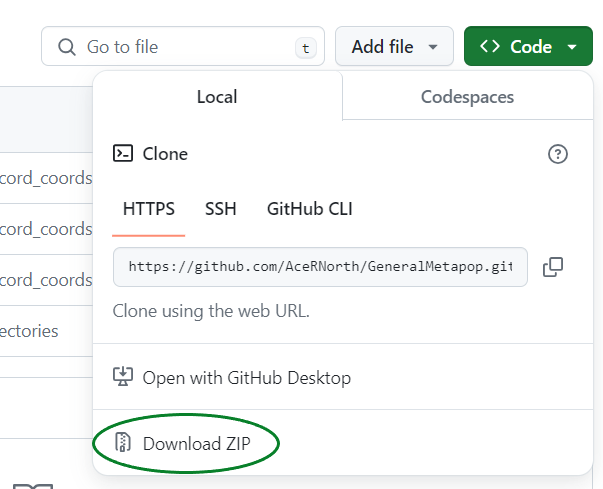
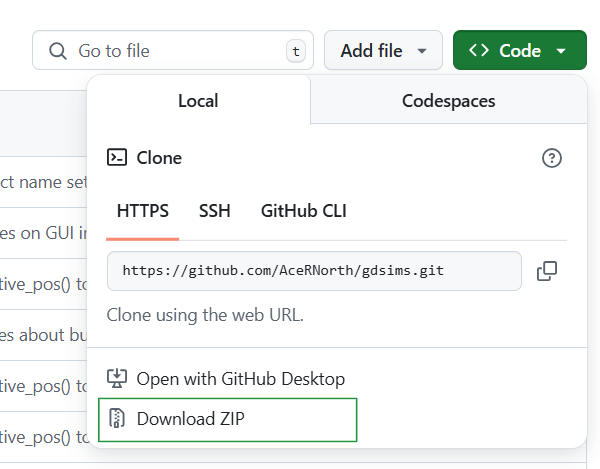
Update repo name in docs to gdsims

diff --git a/README.md b/README.md
@@ -1,7 +1,7 @@
-# GeneralMetapop
-GeneralMetapop is a metapopulation simulation program modelling mosquito populations and their response to gene drive release. The main aims of the project are to create a model program that is maintainable, extensible and widely accessible.
+# GDSiMS
+GDSiMS: the Gene Drive Simulator of Mosquito Spread is a metapopulation simulation program modelling mosquito populations and their response to gene drive release. The main aims of the project are to create a model program that is maintainable, extensible and widely accessible.
 
-The full documentation website can be found [here](https://acernorth.github.io/GeneralMetapop/), which includes updated installation instructions, tutorials, a user guide and full API documentation.
+The full documentation website can be found [here](https://acernorth.github.io/gdsims/), which includes updated installation instructions, tutorials, a user guide and full API documentation.
 
 ## Requirements:
 - C++20-compatible compiler or higher (e.g. MinGW g++ $\geq$ 8.0 for Windows, Clang $\geq$ 10 for Mac)
@@ -28,17 +28,17 @@ The full documentation website can be found [here](https://acernorth.github.io/G
       Install Git Bash and open. Navigate to your chosen directory and run this command to clone the repository:
      ```bash
      cd C:\Users\MyUser\Projects
-     git clone https://github.com/AceRNorth/GeneralMetapop.git
+     git clone https://github.com/AceRNorth/gdsims.git
      ```
    ii. Alternatively, download the files as a ZIP folder, unzip and move to your chosen directory.
    
-   ![download_ZIP](https://github.com/AceRNorth/GeneralMetapop/assets/129318133/f17b09cc-eeb0-4735-ba0c-613a07cb714b)
+   ![download_ZIP](docs/images/install_github_zip.png)
 
 
 3. Open the Windows command prompt again and navigate to your chosen directory.
 
    ```bash
-   cd C:\Users\MyUser\Projects\GeneralMetapop
+   cd C:\Users\MyUser\Projects\gdsims
    ```
 
 4. Create a directory called build where CMake files will be created, and navigate to it:
@@ -87,13 +87,13 @@ The full documentation website can be found [here](https://acernorth.github.io/G
    
      ```bash
      cd ./Projects
-     git clone https://github.com/AceRNorth/GeneralMetapop.git
+     git clone https://github.com/AceRNorth/gdsims.git
      ```
      
 3. Navigate to the repository directory:
 
    ```bash
-   cd GeneralMetapop
+   cd gdsims
    ```
 
 5. Create a directory called build where CMake files will be created, and navigate to it:

diff --git a/docs/install.rst b/docs/install.rst
@@ -42,7 +42,7 @@ Windows
       .. code-block:: bash
 
          cd C:\Users\MyUser\Projects
-         git clone https://github.com/AceRNorth/GeneralMetapop.git
+         git clone https://github.com/AceRNorth/gdsims.git
 
    ii. Alternatively, download the files as a ZIP folder, unzip and move to your chosen directory.
 
@@ -53,7 +53,7 @@ Windows
 
    .. code-block:: bash
 
-      cd C:\Users\MyUser\Projects\GeneralMetapop
+      cd C:\Users\MyUser\Projects\gdsims
       mkdir build
       cd build
 
@@ -62,7 +62,7 @@ Windows
 
       ::
 
-         GeneralMetapop
+         gdsims
          ├── build
          ├── docs 
          │   └── exercises
@@ -140,13 +140,13 @@ Mac
    .. code-block:: bash
 
       cd ~/Documents/Projects
-      git clone https://github.com/AceRNorth/GeneralMetapop.git
+      git clone https://github.com/AceRNorth/gdsims.git
 
 #. Navigate to the repository directory. Then, create a subdirectory called ``build`` where CMake files will be created, and navigate to it. 
 
    .. code-block:: bash
 
-      cd GeneralMetapop
+      cd gdsims
       mkdir build
       cd build
 
@@ -192,13 +192,13 @@ These instructions will closely follow those for Windows, with the exception of 
    .. code-block:: bash
 
       cd ./Projects
-      git clone https://github.com/AceRNorth/GeneralMetapop.git
+      git clone https://github.com/AceRNorth/gdsims.git
 
 #. Navigate to the repository directory. Then, create a subdirectory called ``build`` where CMake files will be created, and navigate to it. 
 
    .. code-block:: bash
 
-      cd GeneralMetapop
+      cd gdsims
       mkdir build
       cd build
 
